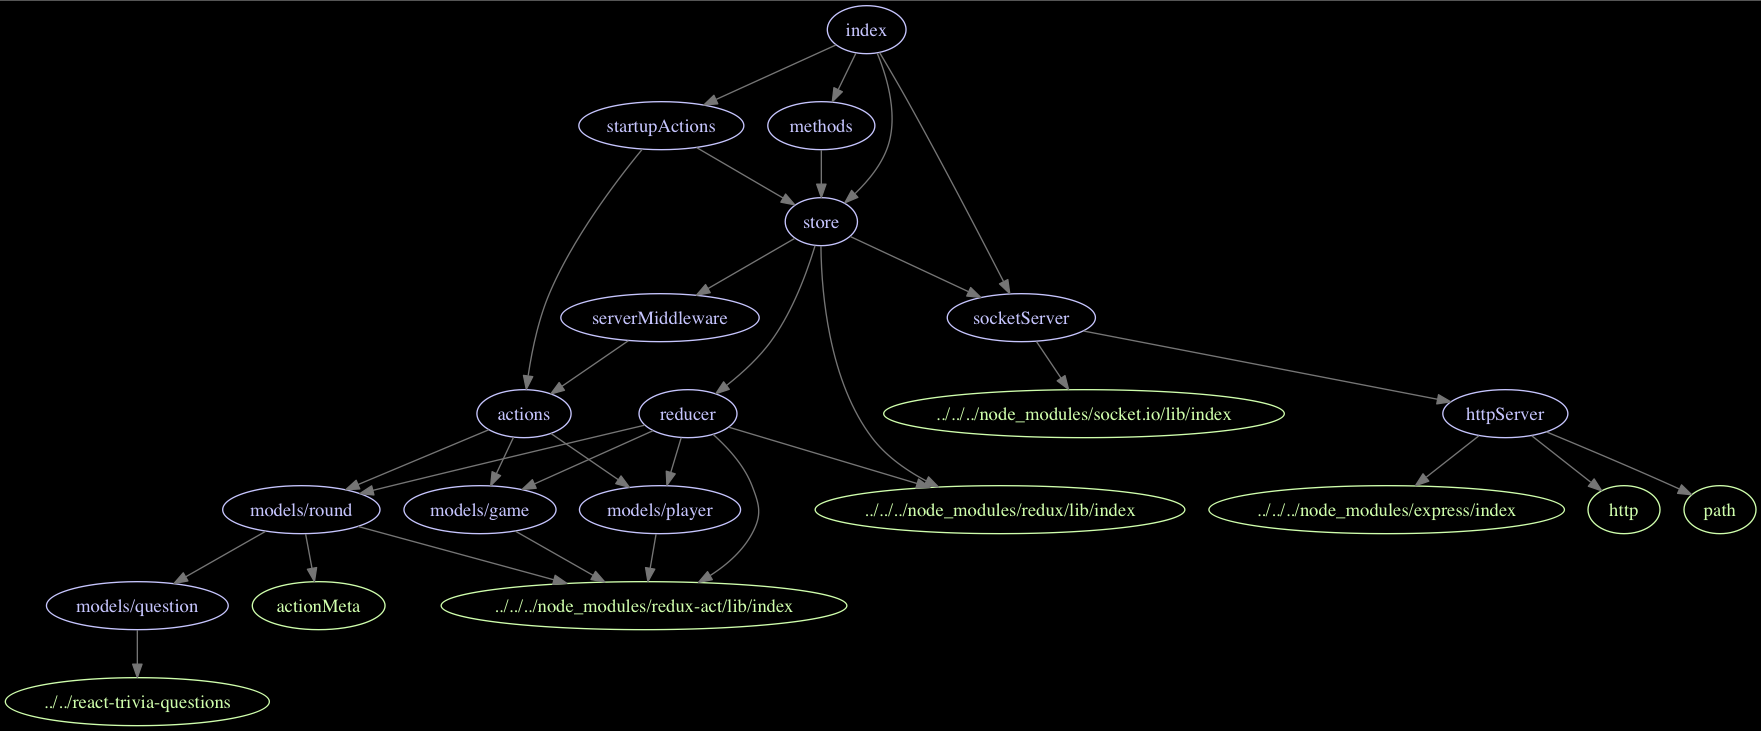
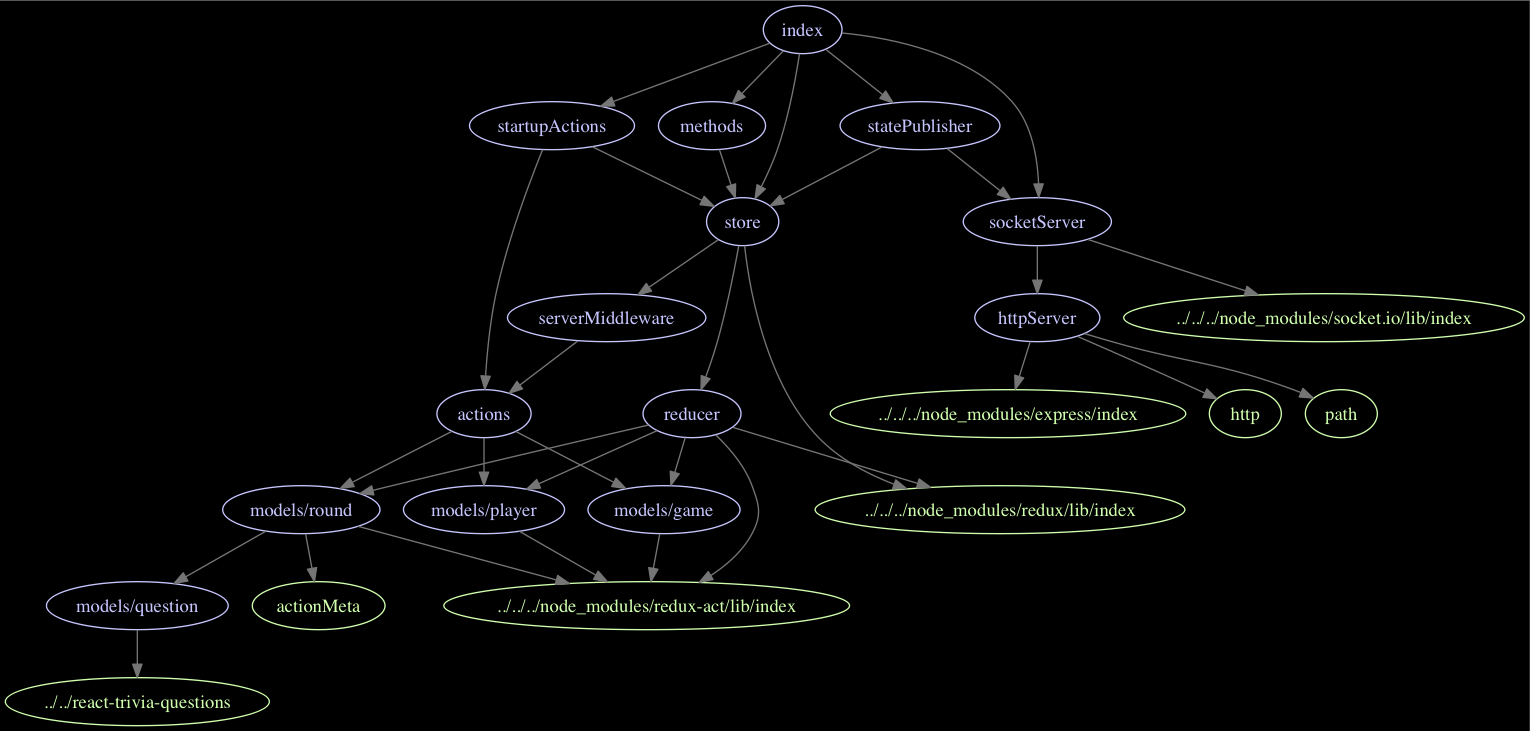
Massive rewrite to make more RPC-like

diff --git a/client/src/pubsub.js b/client/src/pubsub.js
@@ -1,40 +1,5 @@
-import {createAction, createReducer} from 'redux-act'
-import io from 'socket.io-client'
-import getClientID from './myID'
-import {clientOnly} from '../../src/actionMeta'
+import bindActions from './bindActions'
+import stateSubscriber from './stateSubscriber'
 
-export let setState = createAction('SET_STATE', ...clientOnly)
+bindActions(store)
 
-// When the server gives us a new state, call the setState action
-let setLocalStateFromServer = (socket) => socket.on('state', setState)
-
-// A reducer that overlays server-provided states onto our existing one
-export let serverStateReducer = createReducer({
-  [setState]: (existingState, serverState) => ({...existingState, ...serverState})
-})
-
-export let setupPubSub = (wsUrl) => {
-  console.log(`Making WebSockets connection to ${wsUrl}`)
-  let socket = io(wsUrl)
-
-  setLocalStateFromServer(socket)
-
-  // middleware to send actions not marked clientOnly to the server
-  let middleware = store => next => (action) => {
-    let sendToServer = !(action.meta && action.meta.clientOnly)
-
-    // some actions need not be applied locally vs let the server handle them
-    let applyLocal = !(action.meta && action.meta.skipClient)
-
-    if (sendToServer) {
-      let clientID = getClientID()
-      let meta = {clientID}
-      let payload = {...action, meta}
-      console.log('in custom middleware, sending to server: ', payload)
-      socket.emit('action', payload)
-    }
-    return applyLocal && next(action)
-  }
-
-  return {socket, middleware}
-}

diff --git a/client/src/reducer.js b/client/src/reducer.js
@@ -2,7 +2,6 @@ import {combineReducers} from 'redux'
 import * as Game from '../../src/models/game'
 import * as Player from '../../src/models/player'
 import * as Round from '../../src/models/round'
-import {serverStateReducer} from './pubsub'
 
 let stateReducer = combineReducers({
   game: Game.Reducer,
@@ -10,16 +9,9 @@ let stateReducer = combineReducers({
   round: Round.Reducer
 })
 
-let applyPreReducers = (preReducers, origReducer) => {
-  return (state, action) => {
-    for (let reducer of preReducers) {
-      let newState = reducer(state, action)
-      if (newState != state) return newState
-    }
+// Siphon off setState calls, passing others through
+export default function(oldState, action) {
+  if (action.type === 'setState') return action.payload
 
-    return origReducer(state, action)
-  }
+  return stateReducer(oldState, action)
 }
-
-// Create a reducer that siphons off setState events, passing others through
-export default applyPreReducers([serverStateReducer], stateReducer)

diff --git a/client/src/store.js b/client/src/store.js
@@ -1,28 +1,12 @@
 import {createStore, applyMiddleware} from 'redux'
 import reducer from './reducer'
-import {setupPubSub} from './pubsub'
-
-const wsPort = location.hostname === 'localhost' ? ':8470' : ''
-
-// prod is 'http://react-trivia.herokuapp.com'
-// local is http://localhost:8470
-const wsUrl = location.protocol + '//' + location.hostname + wsPort
-
-const {socket, middleware} = setupPubSub(wsUrl)
-
-const createStoreWithMiddleware = applyMiddleware(
-  middleware
-)(createStore)
-
-
-const storeCreator = createStoreWithMiddleware
 
 // https://github.com/gaearon/redux-devtools/issues/274, fixed in 1.4.*
 // const storeCreator = window.devToolsExtension ?
 //     window.devToolsExtension()(createStoreWithMiddleware) :
 //     createStoreWithMiddleware
 
-const store = storeCreator(reducer)
+const store = createStore(reducer)
 
 window.store = store
 export default store

diff --git a/src/index.js b/src/index.js
@@ -2,13 +2,15 @@ import store from './store'
 import socketServer from './socketServer'
 import startupActions from './startupActions'
 import methods from './methods'
+import statePublisher from './statePublisher'
 
 // use a middleware to replay actions to all but the client who sent it
 
 socketServer.on('connection', (socket) => {
   // give the state to newly connected clients
-  console.log('new connection')
-  socket.emit('state', store.getState())
+  let state = store.getState()
+  console.log('new: ->', state)
+  socket.emit('setState', state)
 
   // attach methods to socket.io actions from clients
   for (let name in methods) {

diff --git a/client/src/bindActions.js b/client/src/bindActions.js
@@ -1,4 +1,14 @@
-import {assignAll} from 'redux-act'
+import {createAction, assignAll} from 'redux-act'
 import Actions from './actions'
+import socket from './socket'
+import {clientOnly} from '../../src/actionMeta'
+import getClientID from './myID'
 
-export default (store) => assignAll(Actions, store)
+export default (store) => assignAll(Actions, (action) => {
+  //mark for this user
+  action.meta.clientID = getClientID()
+
+  if (!action.meta.skipClient) store.dispatch(action)
+
+  socket.emit('action', action)
+})

diff --git a/src/store.js b/src/store.js
@@ -1,16 +1,11 @@
 import {createStore, applyMiddleware} from 'redux'
 import reducer from './reducer'
 import * as serverMiddleware from './serverMiddleware'
-import socketServer from './socketServer'
 
 let middlewareStoreCreator = applyMiddleware(
   ...Object.values(serverMiddleware)
 )(createStore)
 
 let store = middlewareStoreCreator(reducer)
-
-store.subscribe(() => {
-  socketServer.emit('state', store.getState())
-})
 
 export default store

diff --git a/client/src/socket.js b/client/src/socket.js
@@ -1,0 +1,12 @@
+import io from 'socket.io-client'
+
+const wsPort = location.hostname === 'localhost' ? ':8470' : ''
+
+// prod is 'http://react-trivia.herokuapp.com'
+// local is http://localhost:8470
+const wsUrl = location.protocol + '//' + location.hostname + wsPort
+console.log(`Making WebSockets connection to ${wsUrl}`)
+let socket = io(wsUrl)
+
+window.socket = socket
+export default socket

diff --git a/client/src/actions.js b/client/src/actions.js
@@ -1,4 +1,3 @@
-import {setState} from './pubsub'
 import {createAction} from 'redux-act'
 import * as Game from '../../src/models/game'
 import * as Player from '../../src/models/player'
@@ -7,8 +6,7 @@ import * as Round from '../../src/models/round'
 let actions = {
   ...Game.Actions,
   ...Player.Actions,
-  ...Round.Actions,
-  setState
+  ...Round.Actions
 }
 
 export default actions

diff --git a/client/src/index.jsx b/client/src/index.jsx
@@ -5,9 +5,7 @@ import {connect, Provider} from 'react-redux'
 import TestHarness from './components/TestHarness'
 import Main from './components/Main'
 import store from './store'
-import bindActions from './bindActions'
-
-bindActions(store)
+import pubsub from './pubsub'
 
 const ConnectedMain = connect(state => state)(Main)
 

diff --git a/src/statePublisher.js b/src/statePublisher.js
@@ -1,0 +1,11 @@
+import socketServer from './socketServer'
+import store from './store'
+
+export const setStateMethod = 'setState'
+
+store.subscribe(() => {
+  let state = store.getState()
+  console.log('=>', state)
+  socketServer.emit(setStateMethod, state)
+})
+

diff --git a/client/src/stateSubscriber.js b/client/src/stateSubscriber.js
@@ -1,0 +1,8 @@
+import socket from './socket'
+import store from './store'
+
+const setStateMethod = 'setState'
+
+socket.on(setStateMethod, (payload) => {
+  store.dispatch({type: setStateMethod, payload})
+})
